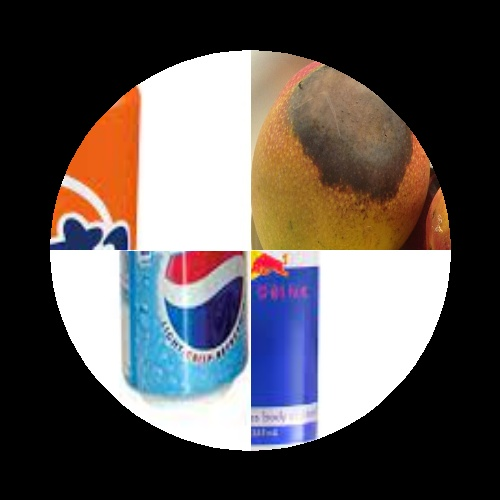
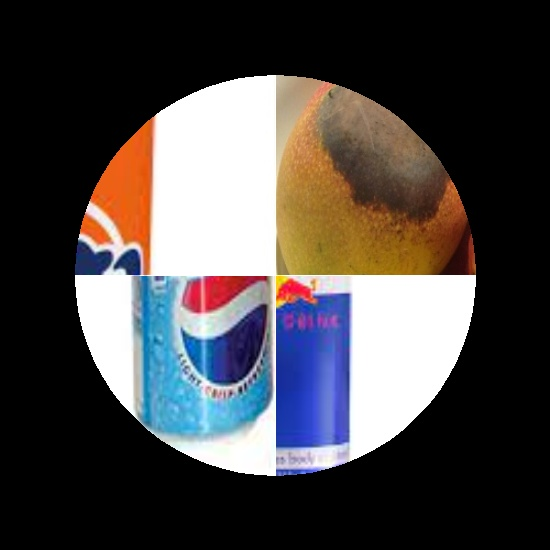
ww

Changed region(s): [[0.09, 0.09, 0.9, 0.9]]

diff --git a/test3.py b/test3.py
@@ -6,9 +6,9 @@ image1 = cv2.imread('alum (6).jpg')
 image2 = cv2.imread('alum (29).jpg')
 image3 = cv2.imread('spliced_image.jpg')
 
-image1 = cv2.resize(image1, (500,500))
-image2 = cv2.resize(image2, (500,500))
-image3 = cv2.resize(image3, (500, 500))
+image1 = cv2.resize(image1, (550,550))
+image2 = cv2.resize(image2, (550,550))
+image3 = cv2.resize(image3, (550, 550))
 
 # Create the blank canvas
 canvas = np.zeros_like(image1)
